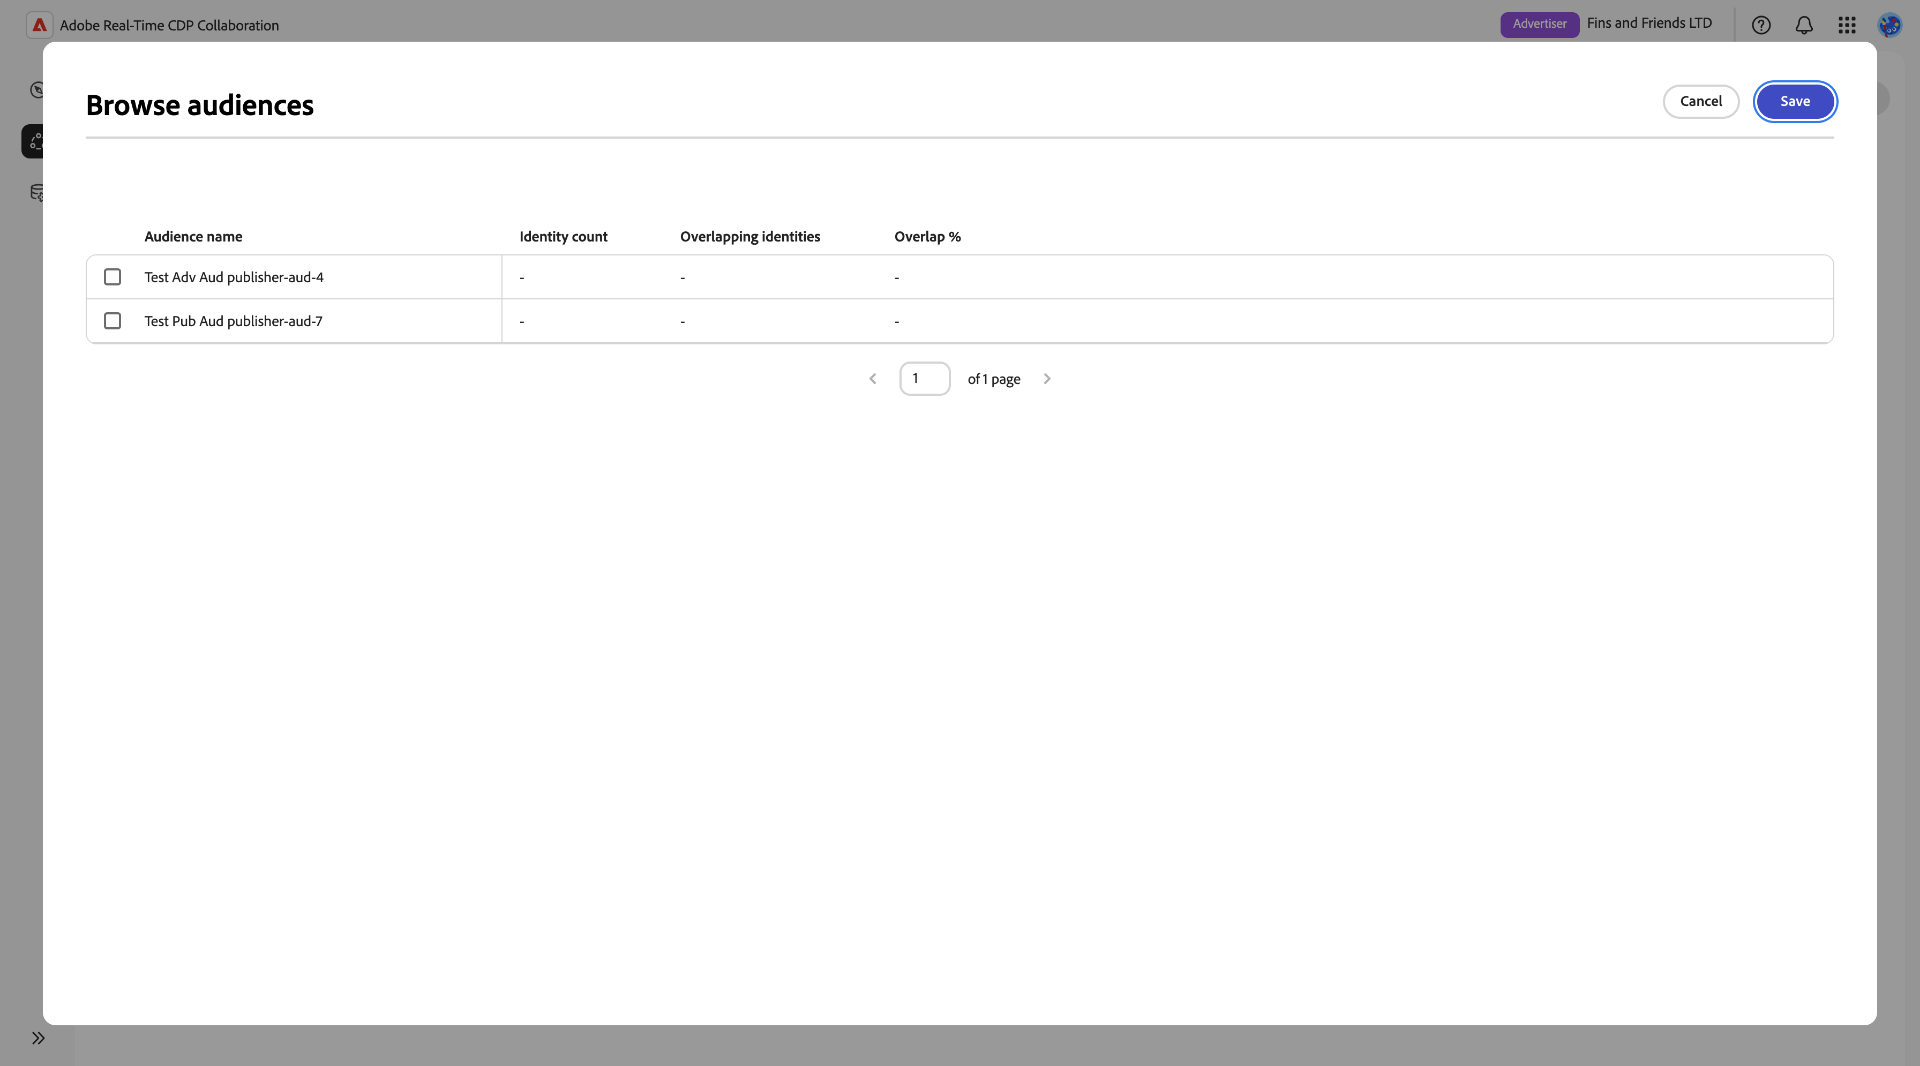
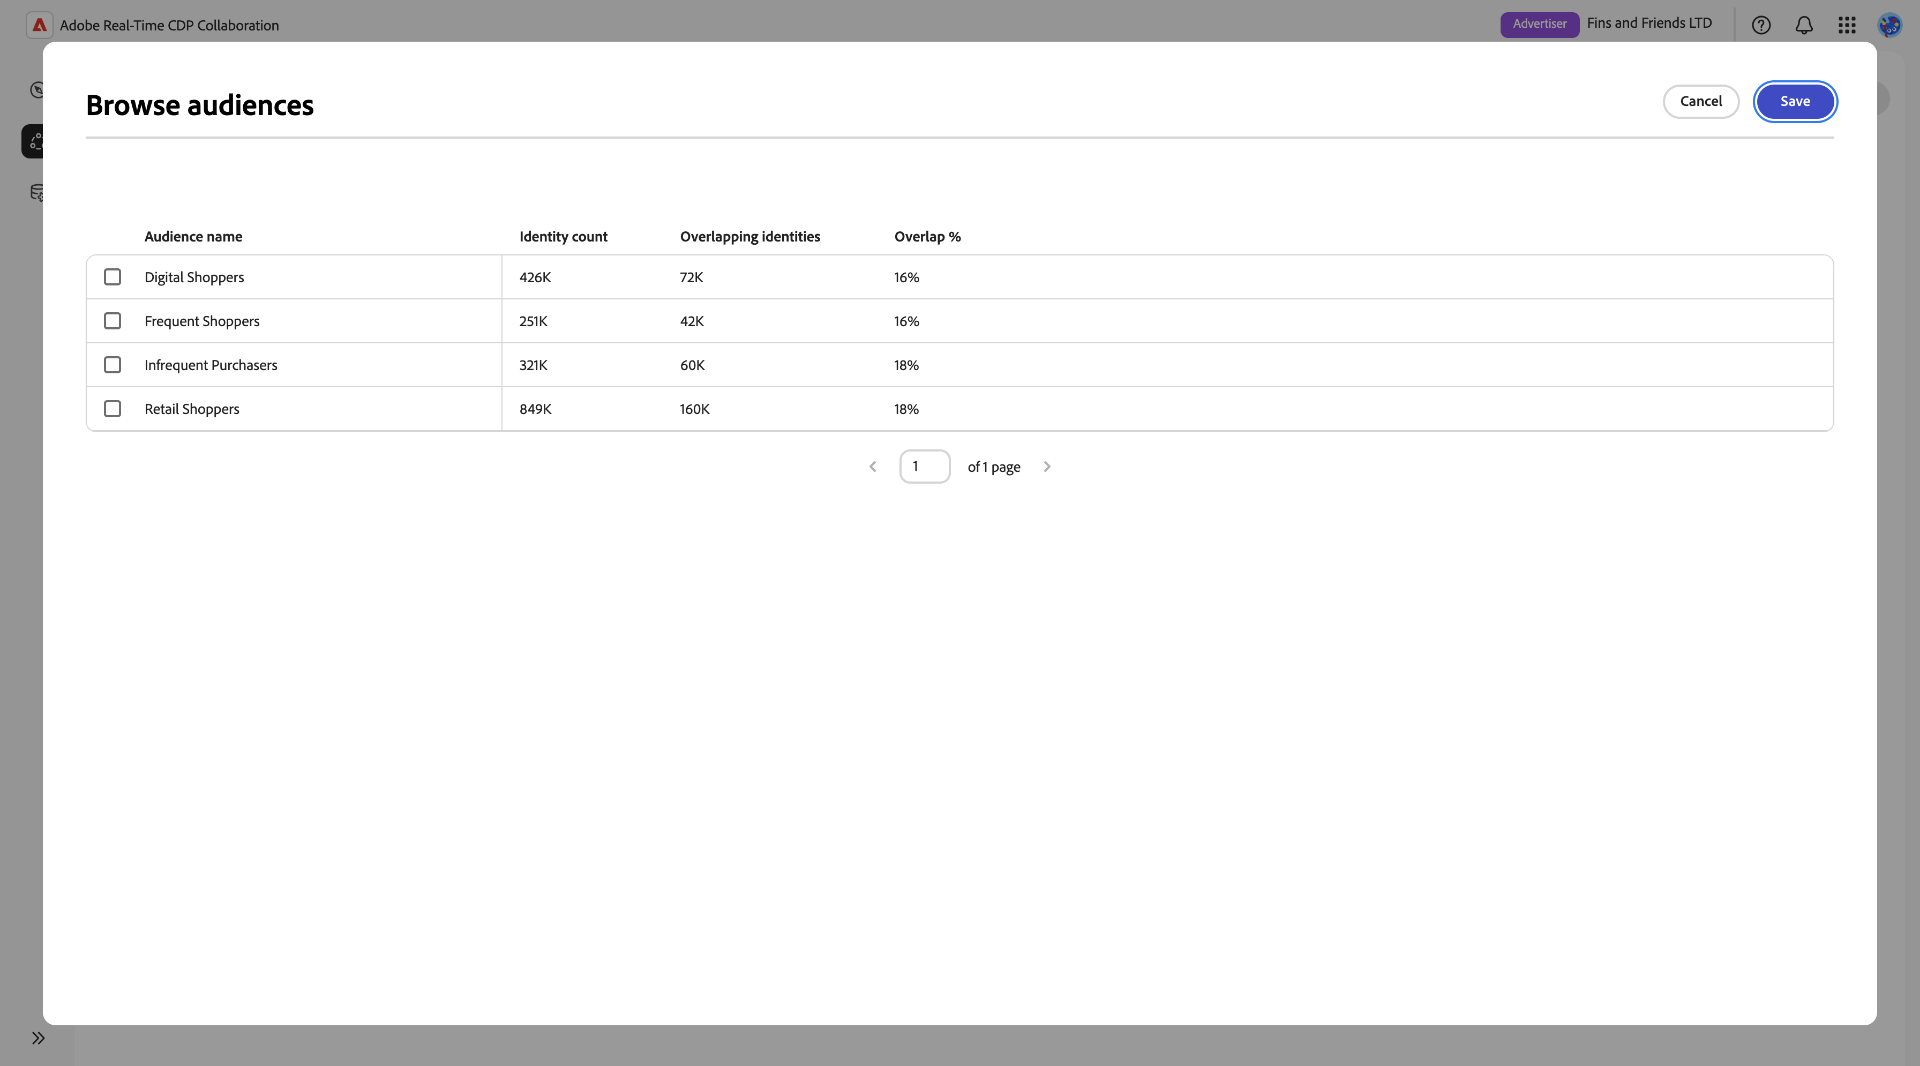
updates activate

diff --git a/help/guide/collaborate/activate.md b/help/guide/collaborate/activate.md
@@ -21,121 +21,63 @@ To start activating audiences, navigate to the **[!UICONTROL Activate]** tab in 
 
 >[!NOTE]
 >
->Only **advertisers** can send audience to be activated for campaigns. 
+>Only **advertisers** can activate audiences in a project. 
 
 Select the **+** symbol, or the **[!UICONTROL Activate audience]** option if no previous audiences have been sent for activation.
 
 ![The Activate workspace in a project with no audiences added.](/help/assets/collaborate/activate/activate-new-audiences.png)
 
-The activate audiences workflow opens, where you can select the audiences that you want to send to your collaborator. Use the dropdown to select an audience, or search for a specific audience. To see more information about the audiences before making your select, select **[!UICONTROL Browse audiences]**
+The activate audiences workflow opens, where you can select the audience that you want to send to your collaborator. Use the dropdown to select an audience, or search for a specific audience. To see more information about the audiences before making your select, select **[!UICONTROL Browse audiences]**
 
 ![The Audience activation workflow with the dropdown and Browse audiences options highlighted.](/help/assets/collaborate/activate/audience-activation.png)
 
 In the **[!UICONTROL Browse audiences]**, you can see the **[!UICONTROL Identity count]**, **[!UICONTROL Overlapping identities]**, and **[!UICONTROL Overlap %]** for each audience.
 
-<!-- REPLACE THIS TOMORROW AND THEN KEEP EDITING -->
+![The Browse audiences dialog showing the available audiences.](/help/assets/collaborate/activate/browse-audiences.png)
 
-![The Browse audiences dialog.](/help/assets/collaborate/activate/browse-audiences.png)
+Select the audience that you want to activate in campaigns, and then select **[!UICONTROL Save]**. The audience is now, displayed and you can see the **[!UICONTROL Identity count]**, **[!UICONTROL Overlapping identities]**, and **[!UICONTROL Overlap %]** for the selected audience.
 
-### Edit match keys and set targeting options
+![The Audience activation workflow with the selected audience displayed.](/help/assets/collaborate/activate/selected-audience.png)
 
-After selecting the desired audiences to share, you can now select other configuration options for the sharing activity.
+### Edit match keys
 
-![Edit match keys and target or suppress selector highlighted](/help/assets/collaborate/share/match-keys-and-targeting.png)
+Next, you can edit the audience's match keys by selecting **[!UICONTROL Edit match keys]** within the select audience. These options are inherited from your match key selections when the connection between collaborators was initially set up. You can remove match keys that were selected if they don't apply to a specific campaign, but you cannot add new match keys.
 
-Select **[!UICONTROL Edit match keys]** to indicate which match keys should be used for the identities in the audience. These options are inherited from the settings that were selected when the connection between collaborators was initially set up. You can remove match keys that were selected at that point if they don't apply to this specific campaign, but you cannot add new match keys at this point. 
+![The Audience activation workflow with the Edit match keys option highlighted.](/help/assets/collaborate/activate/edit-match-keys.png)
 
-![Edit match keys.](/help/assets/collaborate/share/update-match-keys.png)
+The **[!UICONTROL Edit match keys]** dialog opens, where you can toggle off the match keys that you don't want to use. Select **[!UICONTROL Save]** to save your changes.
 
-For each audience, select whether you would like the members of that audience to be targeted or suppressed in the campaign. Suppressed profiles will specifically not be part of the audience activated by the publisher.
+>[!NOTE]
+>
+>At least one match key must be selected. In the current release, the only match keys available is **[!UICONTROL Hashed email]**, so you cannot remove this match key.
+
+![The Edit match keys dialog in the Audiece activation workflow.](/help/assets/collaborate/activate/edit-match-keys-selection.png)
 
 ### Set audience refresh frequency and interval
 
-Finally, set the desired frequency and date range for the audience refresh. The currently supported modes for audience refresh are **[!UICONTROL Once]** and **[!UICONTROL Daily]**. 
+Finally, set the desired frequency and date range for the audience to refresh. In the current release, the only supported frequency option is **[!UICONTROL Once]**. The **[!UICONTROL Once]** frequency means the audiences are activated a single time and are not refreshed throughout the duration of a campaign. The **[!UICONTROL Date]** option is auto-populated with the current date.
 
-When selecting **[!UICONTROL Once]**, the audience membership is not refreshed throughout the duration of a campaign. When selecting **[!UICONTROL Daily]**, the audience membership is refreshed once per day throughout the duration of a campaign.
+![The Audience activation workflow with the Frequency section highlighted.](/help/assets/collaborate/activate/audience-frequency.png)
 
-![Frequency options highlighted.](/help/assets/collaborate/share/audience-refresh-frequency.png)
+When satisfied with your selections, select **[!UICONTROL Activate]** to complete the workflow. The audience is now activated and you can view it in the **[!UICONTROL Activate]** tab. It will also be available to your collaborator in their **[!UICONTROL Activate]** tab, where they can use it in campaigns.
 
-When satisfied with your selections, select **[!UICONTROL Share]** to complete the workflow. 
+You can edit the audience's name edit icon (![Pencil icon.](/help/assets/icons/edit.png)) or deactivate the audience by selecting **[!UICONTROL Deactivate]**.
 
->[!SUCCESS]
->
->You can now see a new audience sharing activity in the **[!UICONTROL Sharing]** tab. If desired, you can go back and edit any of the selections you made. 
+![The Activate tab with the activated audience displayed and the Edit and Deactivate options highlighted.](/help/assets/collaborate/activate/activated-audience.png)
 
-## View currently shared audiences
+## View activated audiences
 
-In the **[!UICONTROL Sharing]** tab, you can view the audiences that are currently being shared between the collaborators, grouped together in audience sharing activities. 
+In the **[!UICONTROL Activate]** tab, both publishers and advertisers can view the audiences that are currently being activated between you and your collaborator.
 
-![Overview of the sharing tab.](/help/assets/collaborate/share/share-tab-overview.png)
+![Overview of the Activate tab, showcasing an activated audience.](/help/assets/collaborate/activate/activate-overview.png)
 
-<!--
+Within each activated audience, you can see the following metrics:
 
-The banner at the top of the page shows figures across all audience sharing activities. 
-
-![The hero banner in the sharing tab.](/help/assets/collaborate/share/share-hero-banner.png)
-
-
-|Metric | Description |
+| Metric | Description |
 |---------|----------|
-| **[!UICONTROL Shared audiences]** | Indicates the number of audiences shared between collaborators in this project, across all audience sharing modules. |
-| **[!UICONTROL Estimated addressable reach]** | Indicates the approximate number of profiles that you can reach across all the audiences that are currently shared in the project. [TODO: ADD INFORMATION ABOUT HOW THIS IS CALCULATED] |
-| **[!UICONTROL Target identities]** | The number of identities across all audiences shared in this project for which you selected to target the profiles. |
-| **[!UICONTROL Suppress identities]** | The number of identities across all audiences shared in this project for which you selected to suppress the profiles and thereby not target them in campaigns. |
-
--->
-
-Within each audience sharing activity, you can get information about each shared audience. 
-
-|Metric | Description |
-|---------|----------|
-| **[!UICONTROL Identity count]** | Indicates the number of profiles across all identities tied to this audience, as per the latest identity count evaluation. These numbers are refreshed every 24-hours. |
-| **[!UICONTROL Overlapping identities]** | Indicates the number of overlapping identities between the members of this audience and the total population of profiles across the collaborator's inventory. |
-| **[!UICONTROL Match key breakdown]** | Shows the identity count for each identity used in the audience. For example, a total identity count of 500k users might consist of 400k users keyed off the hashed email identity and 100k users keyed off a mobile ID identity. Note that in the example described here, the same person might be present in the audience twice with their email and mobile ID identities. |
-| **[!UICONTROL Objective]** | **[!UICONTROL Suppress]** or **[!UICONTROL Target]**. Indicates if the members of an audience should be targeted or excluded from campaigns. |
-
-The page also provides controls for you to **[!UICONTROL Pause sharing]** and **[!UICONTROL Edit audiences]**.
-
-## Edit audiences {#edit-audiences}
-
->[!CONTEXTUALHELP]
->id="rtcdp_collaboration_share_edit_audiences_usecases"
->title="Target or suppress use case"
->abstract="<p>Select **Target** if you want the profiles in the audience to be shown ads in the campaign.</p> <p>Select **Suppress** if you want to exclude the profiles in the audience from the campaign messaging.</p>"
-
-Select **[!UICONTROL Edit audiences]** to change which audiences are shared in an audience sharing module, as well as to change several configurations related to how audiences are being shared.
-
-![View of the edit audiences modal](/help/assets/collaborate/share/edit-audiences-modal.png)
-
-<!--
-
-Search for audiences that you want to add to the sharing module. 
-
-For each audience, you can select whether you'd like to target or suppress those profiles in campaigns. 
-
-To remove an audience from the sharing module, select the trash can icon [TODO: add spectrum icon and folder].
-
-Select how often you would like the audience membership to be refreshed and the date range within which you want the membership of the audience to be refreshed. 
-
-TODO: are there any limitations for frequency in the M1 release?
-
--->
-
-As a publisher, discover how to activate audiences using Adobe Real-Time CDP Collaboration. Currently, you can activate audiences to Amazon S3 locations. Additional activation channels are planned.
-
-Only **publisher organizations** can activate audiences for campaigns. Advertiser organizations can [share audiences](/help/guide/collaborate/share.md) with publishers, who will activate these audiences in projects. Read more about the [end-to-end workflow](/help/guide/end-to-end-workflow.md) for advertisers and publishers.
-
-## Prerequisites {#prerequisites}
-
-As a publisher using Real-Time CDP Collaboration, you must first work with the Adobe enablement and engineering team to set up a connection to your desired Amazon S3 location. Once this is set up, you are able to activate, or export, audiences from Real-Time CDP Collaboration to your Amazon S3 location. Contact your Adobe representative to kick off this workflow.
-
-Additionally, your connection must have the **Audience sharing and activation** use case enabled.
-
-## Activation behavior {#activation-behavior}
-
-After your advertiser connection shares an audience for activation, this audience immediately shows up in your **[!UICONTROL Activate]** view. The audience will be exported to your indicated location at the interval set by the advertiser in their audience share screen.
-
-![Activate workflow to an Amazon S3 destination.](/help/assets/collaborate/activate/activate-to-amazon-s3.png)
+| **[!UICONTROL Activated identities]** | Indicates the number of activated identities within the audience. |
+| **[!UICONTROL Overlapping identities]** | Indicates the number of overlapping identities between this audience and the total population of profiles across the collaborator's inventory. |
+| **[!UICONTROL Match key breakdown ]** | Shows the identity count for each identity used in the audience. For example, a total identity count of 500k users might consist of 400k users keyed off the hashed email identity and 100k users keyed off a mobile ID identity. Note that in the example described here, the same person might be present in the audience twice with their email and mobile ID identities. |
 
 ## Next steps {#next-steps}
 
